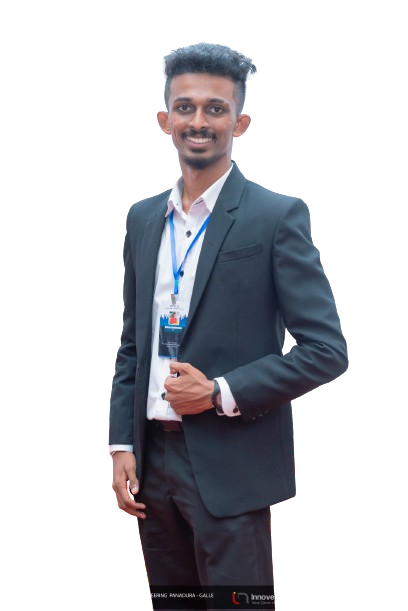
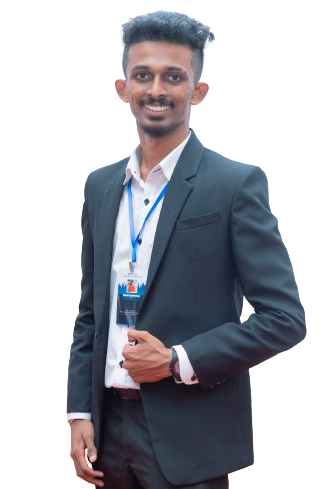
HOME PAGE EDITED

diff --git a/My_Portfolio.html b/My_Portfolio.html
@@ -27,11 +27,11 @@
             <p>This is my official website to shows all
                 <br>Details and work experices 
             </p>
-        <a href="#">Download CV</a>
+        <a href="">Download CV</a>
         </div>
         <div class="images">
             <img src="img/shape01.png" class="shape">
-            <img src="img/IMG_5736-removebg (1).png" class="img">
+            <img src="img/img04.png" class="img">
         </div>
     </div>
    

diff --git a/style.css b/style.css
@@ -11,7 +11,7 @@
     position: relative;
     width: 100%;
     height: 100vh;
-    background: #5e87d2;
+    background: #84a3dc;
 }
 
 nav{
@@ -95,8 +95,8 @@ span{
 .images:hover.shape{
 
     bottom: 40px;
-    height: 30px;
-    width: 60px;
+    height: 60px;
+    width: 70px;
 }
 
 .images:hover.img{
